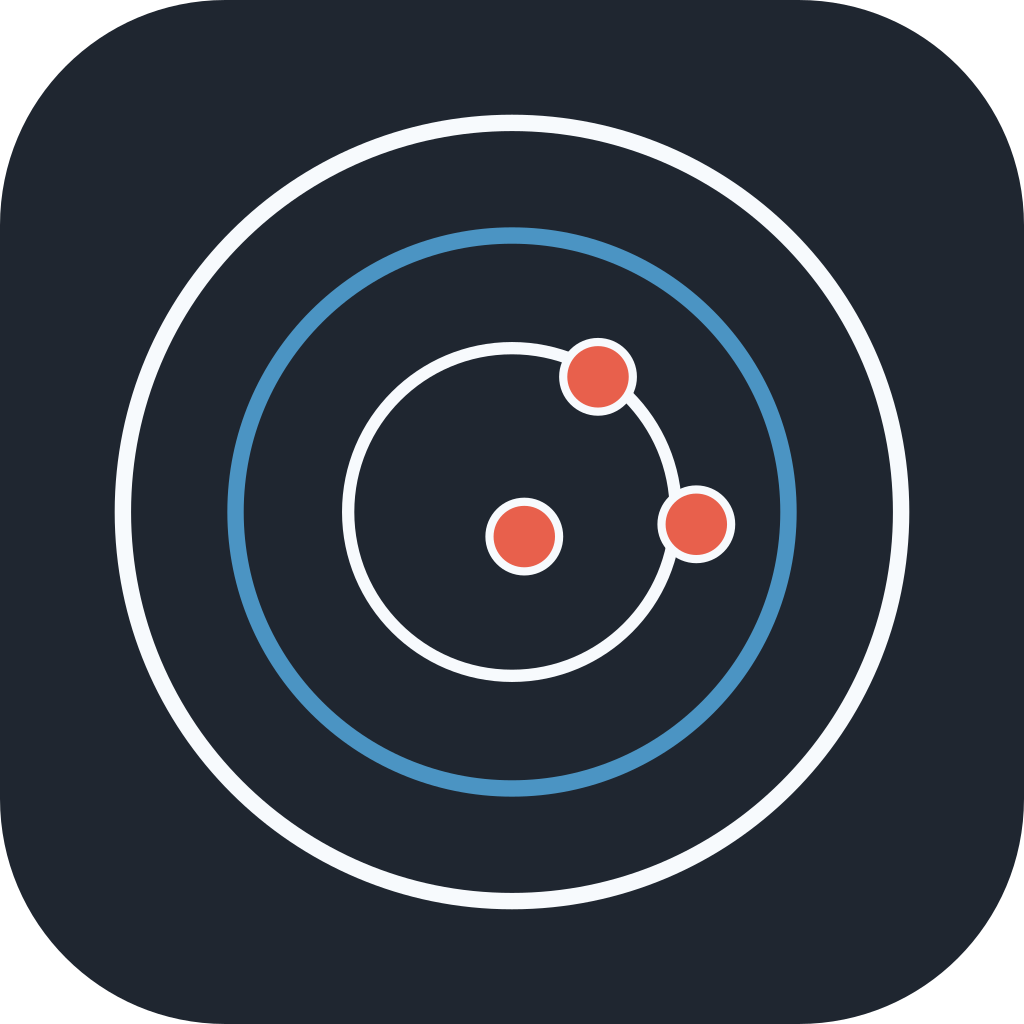
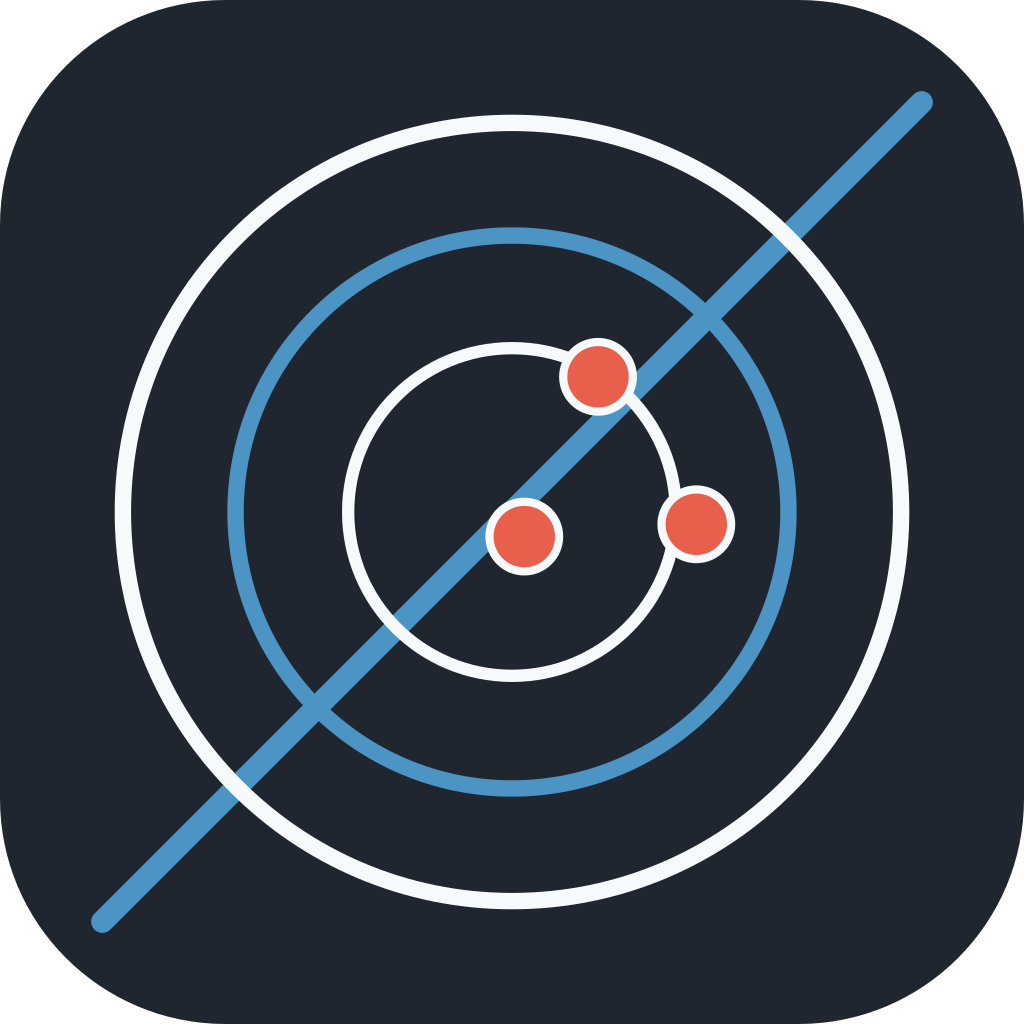
Add a rising trend line to the NordicAim mark
brand-mark.ts's brandMotif() is the one shared source for the app icon
(favicon, PWA icons, apple-touch-icon), the in-app header, the session
summary image and the coach trends image. It now draws a trend line
from bottom-left to top-right behind the target rings, in the same ice
accent blue already used for rings and highlights (docs/brand's own
colour table) -- the target says what it measures, the line says what
the app is for (Patterns, Analysis, Goals: spot the trend).

Regenerated the app icon family from the updated source (pnpm
make:icons, plus the matching docs/brand/ copies: favicon.svg,
app-icons/*.png, app-icon.svg, app-icon-square.svg,
app-icon-maskable.svg, app-icon-1024.png -- all exact, since they call
the same targetSvg()/brandMotif() formula).

The README banner (docs/brand/banner.png) has no SVG source and its
mark uses an older, separately hand-tuned 1-ring composition I
couldn't exactly reverse-engineer, so rather than guess at it I
measured the existing mark's position precisely (a 343px circle
centred at (289.5, 279.5) on #1F2630, matching BRAND_TILE) and
composited a freshly rendered mark at that exact spot, leaving the
wordmark text pixels completely untouched.

Not touched (same bespoke composition, lower priority, not shown in
the main README or the live app): mark-dark.svg, mark-light.svg,
wordmark-dark.svg, wordmark-light.svg, social-card.svg/png.

Verified: pnpm typecheck clean; composite/render unit tests pass (217
[…]

diff --git a/src/lib/render/brand-mark.ts b/src/lib/render/brand-mark.ts
@@ -1,7 +1,9 @@
-// REV-138 (icon redesign): the NordicAim mark as SVG, one source for the app icons (scripts/make-icons.ts) and the summary
-// image's header. Pure. A biathlon target seen from the firing line, drawn fine-line rather than filled: three concentric
-// outlined rings and a tight group of three small holes just off centre. Drawn on a 100-unit grid inside the square at
-// (x, y) of side `size`, on the caller's own dark background (no filled disc of its own).
+// REV-138 (icon redesign), owner 2026-10-04 (trend line): the NordicAim mark as SVG, one source for the app icons
+// (scripts/make-icons.ts) and the summary image's header. Pure. A biathlon target seen from the firing line, drawn
+// fine-line rather than filled: three concentric outlined rings and a tight group of three small holes just off
+// centre, with a rising trend line from bottom-left to top-right behind them — the target says what it measures,
+// the line says the app's whole point (Patterns, Analysis, Goals: spot the trend). Drawn on a 100-unit grid inside
+// the square at (x, y) of side `size`, on the caller's own dark background (no filled disc of its own).
 
 const PAPER = '#F7FAFD';
 const ACCENT = '#4B94C3';
@@ -16,6 +18,9 @@ const RINGS: ReadonlyArray<readonly [number, string, number]> = [
   [27, ACCENT, 1.6],
   [16, PAPER, 1.2],
 ];
+/** Bottom-left to top-right (SVG y grows downward, so the higher value is the lower point), behind the rings. */
+const TREND_LINE: readonly [number, number, number, number] = [10, 90, 90, 10];
+const TREND_LINE_WIDTH = 2.2;
 
 export const BRAND_TILE = '#1F2630';
 
@@ -24,11 +29,13 @@ export function brandMotif(x: number, y: number, size: number): string {
   const at = (v: number, o: number) => (o + v * k).toFixed(2);
   const len = (v: number) => (v * k).toFixed(2);
   const c = (v: number, o: number) => at(v, o);
+  const [x1, y1, x2, y2] = TREND_LINE;
+  const trendLine = `<line x1="${c(x1, x)}" y1="${c(y1, y)}" x2="${c(x2, x)}" y2="${c(y2, y)}" stroke="${ACCENT}" stroke-width="${len(TREND_LINE_WIDTH)}" stroke-linecap="round" />`;
   const rings = RINGS.map(
     ([r, stroke, width]) => `<circle cx="${c(50, x)}" cy="${c(50, y)}" r="${len(r)}" fill="none" stroke="${stroke}" stroke-width="${len(width)}" />`,
   ).join('');
   const holes = HOLES.map(
     ([hx, hy, r]) => `<circle cx="${c(hx, x)}" cy="${c(hy, y)}" r="${len(r)}" fill="${HOLE}" stroke="${PAPER}" stroke-width="${len(0.8)}" />`,
   ).join('');
-  return `<g class="brand-mark">${rings}${holes}</g>`;
+  return `<g class="brand-mark">${trendLine}${rings}${holes}</g>`;
 }
